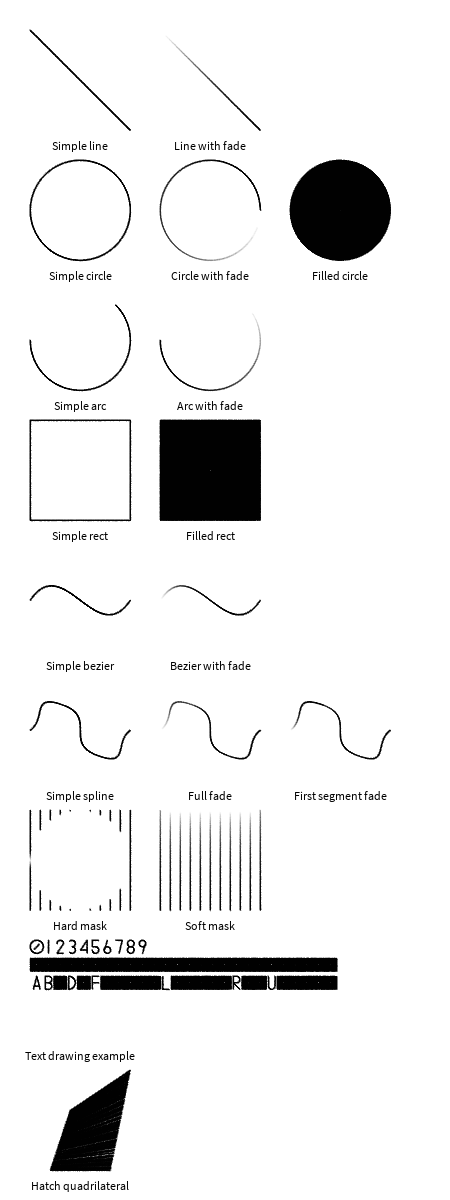
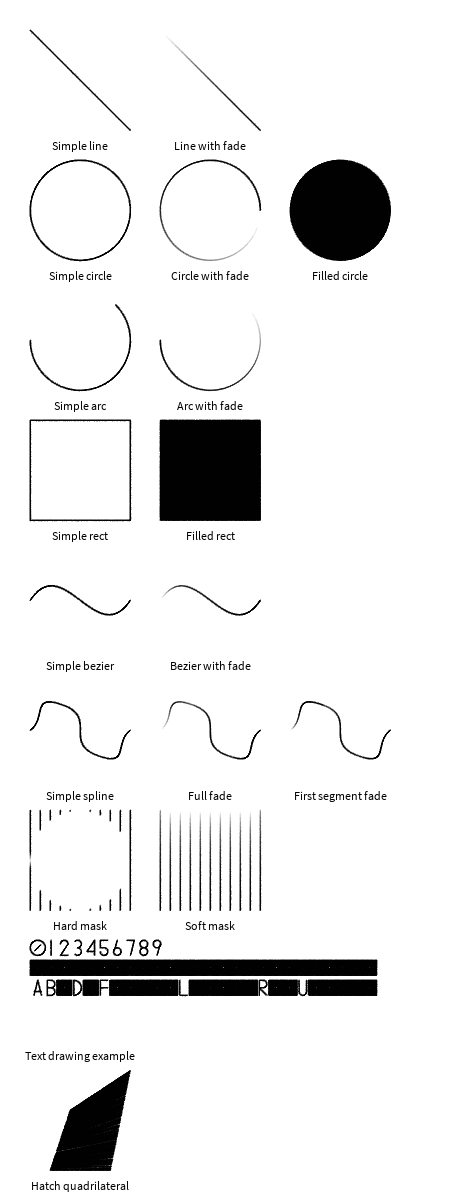
Add support for off-screen rendering

Changed region(s): [[0.0622, 0.7708, 0.84, 0.8325], [0.2489, 0.925, 0.28, 0.9558], [0.2178, 0.9558, 0.2489, 0.9867]]

diff --git a/src/paperandpencil/PaperAndPencil.java b/src/paperandpencil/PaperAndPencil.java
@@ -16,6 +16,8 @@ public class PaperAndPencil {
     float pencilSpread;
     PGraphics maskBuffer;
     boolean useMask = false;
+    // Optional drawing target (off-screen). When non-null, all rendering goes there instead of the main surface
+    private PGraphics target;
     
     public enum QualityMode {
         DRAFT,      // Fast rendering with fewer points
@@ -38,6 +40,21 @@ public class PaperAndPencil {
     }
 
     /**
+     * Sets an off-screen / alternative PGraphics target. All subsequent drawing commands
+     * will use this target until clearTarget() is called (or another target is set).
+     * Passing null reverts to the main sketch surface.
+     */
+    public void setTarget(PGraphics pg) {
+        this.target = pg;
+    }
+
+    /** Clear any previously set drawing target. */
+    public void clearTarget() { this.target = null; }
+
+    /** Returns currently active graphics context (target if set, else the main sketch surface). */
+    private PGraphics g() { return target != null ? target : p.g; }
+
+    /**
      * Initializes and returns the mask buffer for drawing.
      * When drawing, the mask's alpha channel is used to determine the opacity of the pencil strokes:
      * Anything transparent on the mask will allow the pencil strokes to show through.
@@ -51,8 +68,10 @@ public class PaperAndPencil {
      * @return The PGraphics object for the mask buffer
      */
     public PGraphics resetMask() {
-        if (this.maskBuffer == null) {
-            this.maskBuffer = p.createGraphics(p.width, p.height);
+        int w = (target != null ? target.width : p.width);
+        int h = (target != null ? target.height : p.height);
+        if (this.maskBuffer == null || this.maskBuffer.width != w || this.maskBuffer.height != h) {
+            this.maskBuffer = p.createGraphics(w, h);
         }
         this.maskBuffer.beginDraw();
         this.maskBuffer.clear();
@@ -139,22 +158,22 @@ public class PaperAndPencil {
         if (qualityMode == QualityMode.PRINT) {
             return;
         }
-
-        p.noStroke();
+        PGraphics g = g();
+        g.noStroke();
         int points = getPaperTexturePoints();
         
         for (int i = 0; i < points; ++i) {
-            p.fill(p.random(360), p.random(100f), p.random(100f), p.random(20f));
-            float x = p.random(p.width);
-            float y = p.random(p.height);
-            p.circle(x, y, p.random(2));
+            g.fill(p.random(360), p.random(100f), p.random(100f), p.random(20f));
+            float x = p.random(g.width);
+            float y = p.random(g.height);
+            g.circle(x, y, p.random(2));
         }
         
-        p.loadPixels();
-        for (int i = 0; i < p.pixels.length; i += 1) {
-            p.pixels[i] = p.lerpColor(p.pixels[i], p.color(360), p.random(0.5f));
+        g.loadPixels();
+        for (int i = 0; i < g.pixels.length; i += 1) {
+            g.pixels[i] = p.lerpColor(g.pixels[i], p.color(360), p.random(0.5f));
         }
-        p.updatePixels();
+        g.updatePixels();
     }
 
     /**
@@ -225,7 +244,8 @@ public class PaperAndPencil {
      * @param y y-coordinate of the dot
      */
     public void dot(float x, float y) {
-        if (x < 0 || x >= p.width || y < 0 || y >= p.height) return;
+    PGraphics g = g();
+    if (x < 0 || x >= g.width || y < 0 || y >= g.height) return;
 
         float opacity = 1.0f;
         if (useMask && maskBuffer != null) {
@@ -237,7 +257,7 @@ public class PaperAndPencil {
         }
 
         // Save current fill color
-        int originalFill = p.g.fillColor;
+        int originalFill = g.fillColor;
 
         float spread = getPencilSpreadForMode();
         float size = qualityMode == QualityMode.PRINT ? 1.5f : p.random(2);
@@ -250,21 +270,22 @@ public class PaperAndPencil {
             float a = p.alpha(pencilColor) * opacity; // Blend the alpha with mask opacity
             
             // Apply the modified alpha
-            p.fill(h, s, b, a);
+            g.fill(h, s, b, a);
         }
 
-        p.circle(x + p.random(spread), y + p.random(spread), size);
+        g.circle(x + p.random(spread), y + p.random(spread), size);
         
         // Restore original fill color
-        p.fill(originalFill);
+        g.fill(originalFill);
     }
 
     /**
      * Sets up the common drawing state used across drawing methods
      */
     private void setupDrawingState() {
-        p.noStroke();
-        p.fill(pencilColor);
+        PGraphics g = g();
+        g.noStroke();
+        g.fill(pencilColor);
     }
 
     /**
@@ -277,7 +298,8 @@ public class PaperAndPencil {
             // Apply curve to increase contrast - makes lights lighter and darks darker
             alpha = (float)Math.pow(alpha, 1.5);
         }
-        p.fill(p.hue(pencilColor), p.saturation(pencilColor), 
+        PGraphics g = g();
+        g.fill(p.hue(pencilColor), p.saturation(pencilColor), 
             p.brightness(pencilColor), p.alpha(pencilColor) * alpha);
     }
 
@@ -435,7 +457,8 @@ public class PaperAndPencil {
     private void plotBezierCurve(float x1, float y1, float cx1, float cy1, 
                                 float cx2, float cy2, float x2, float y2, 
                                 boolean fade, float fadeStart, float fadeEnd) {
-        p.noStroke(); // Always disable stroke
+        PGraphics g = g();
+        g.noStroke(); // Always disable stroke
         
         float approxLength = PApplet.dist(x1, y1, cx1, cy1) + 
                            PApplet.dist(cx1, cy1, cx2, cy2) + 
@@ -445,13 +468,13 @@ public class PaperAndPencil {
         
         // If not fading, set the fill color once at the start
         if (!fade) {
-            p.fill(pencilColor);
+            g.fill(pencilColor);
         }
         
         for (float t = 0; t <= 1; t += increment) {
             if (fade) {
                 float fadeProgress = fadeStart + (fadeEnd - fadeStart) * t;
-                p.fill(p.hue(pencilColor), p.saturation(pencilColor), 
+                g.fill(p.hue(pencilColor), p.saturation(pencilColor), 
                     p.brightness(pencilColor), 
                     p.alpha(pencilColor) * fadeProgress);
             }
